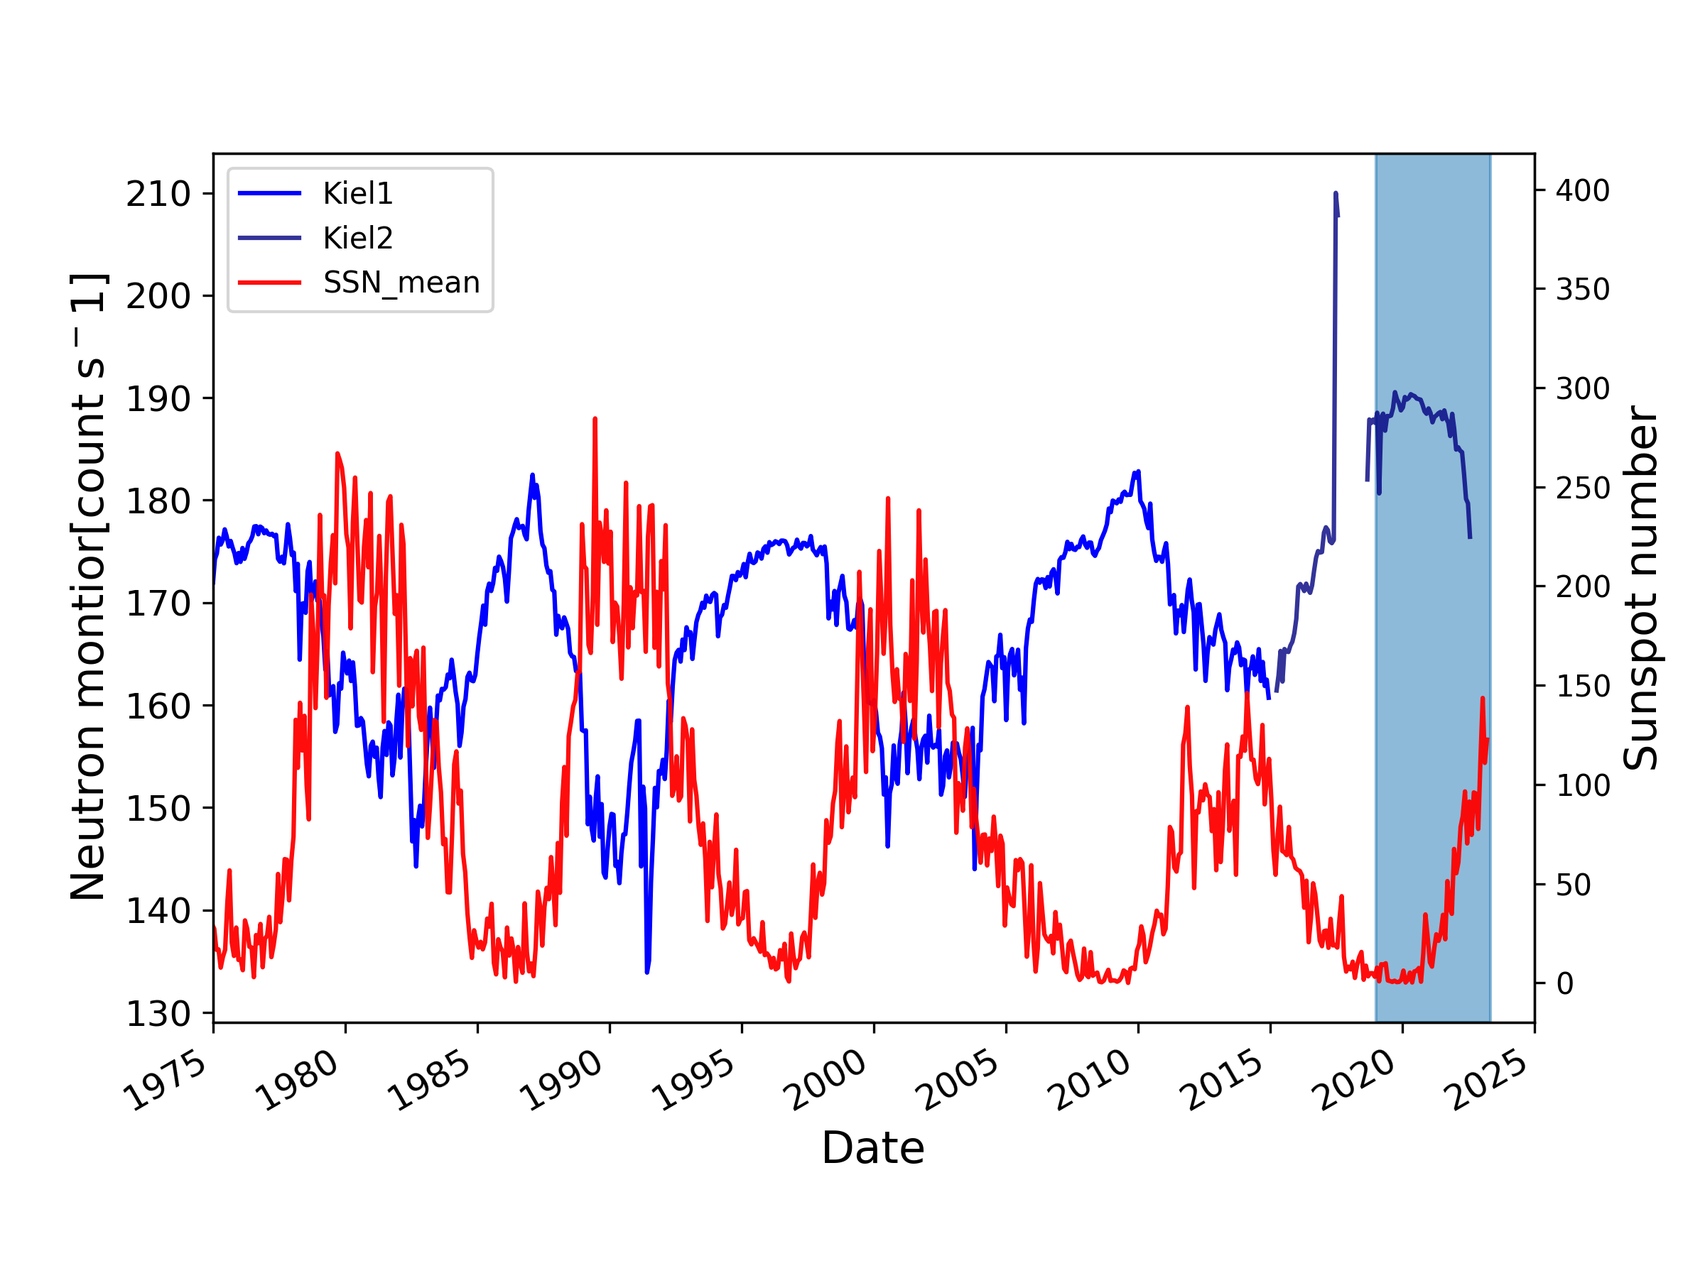
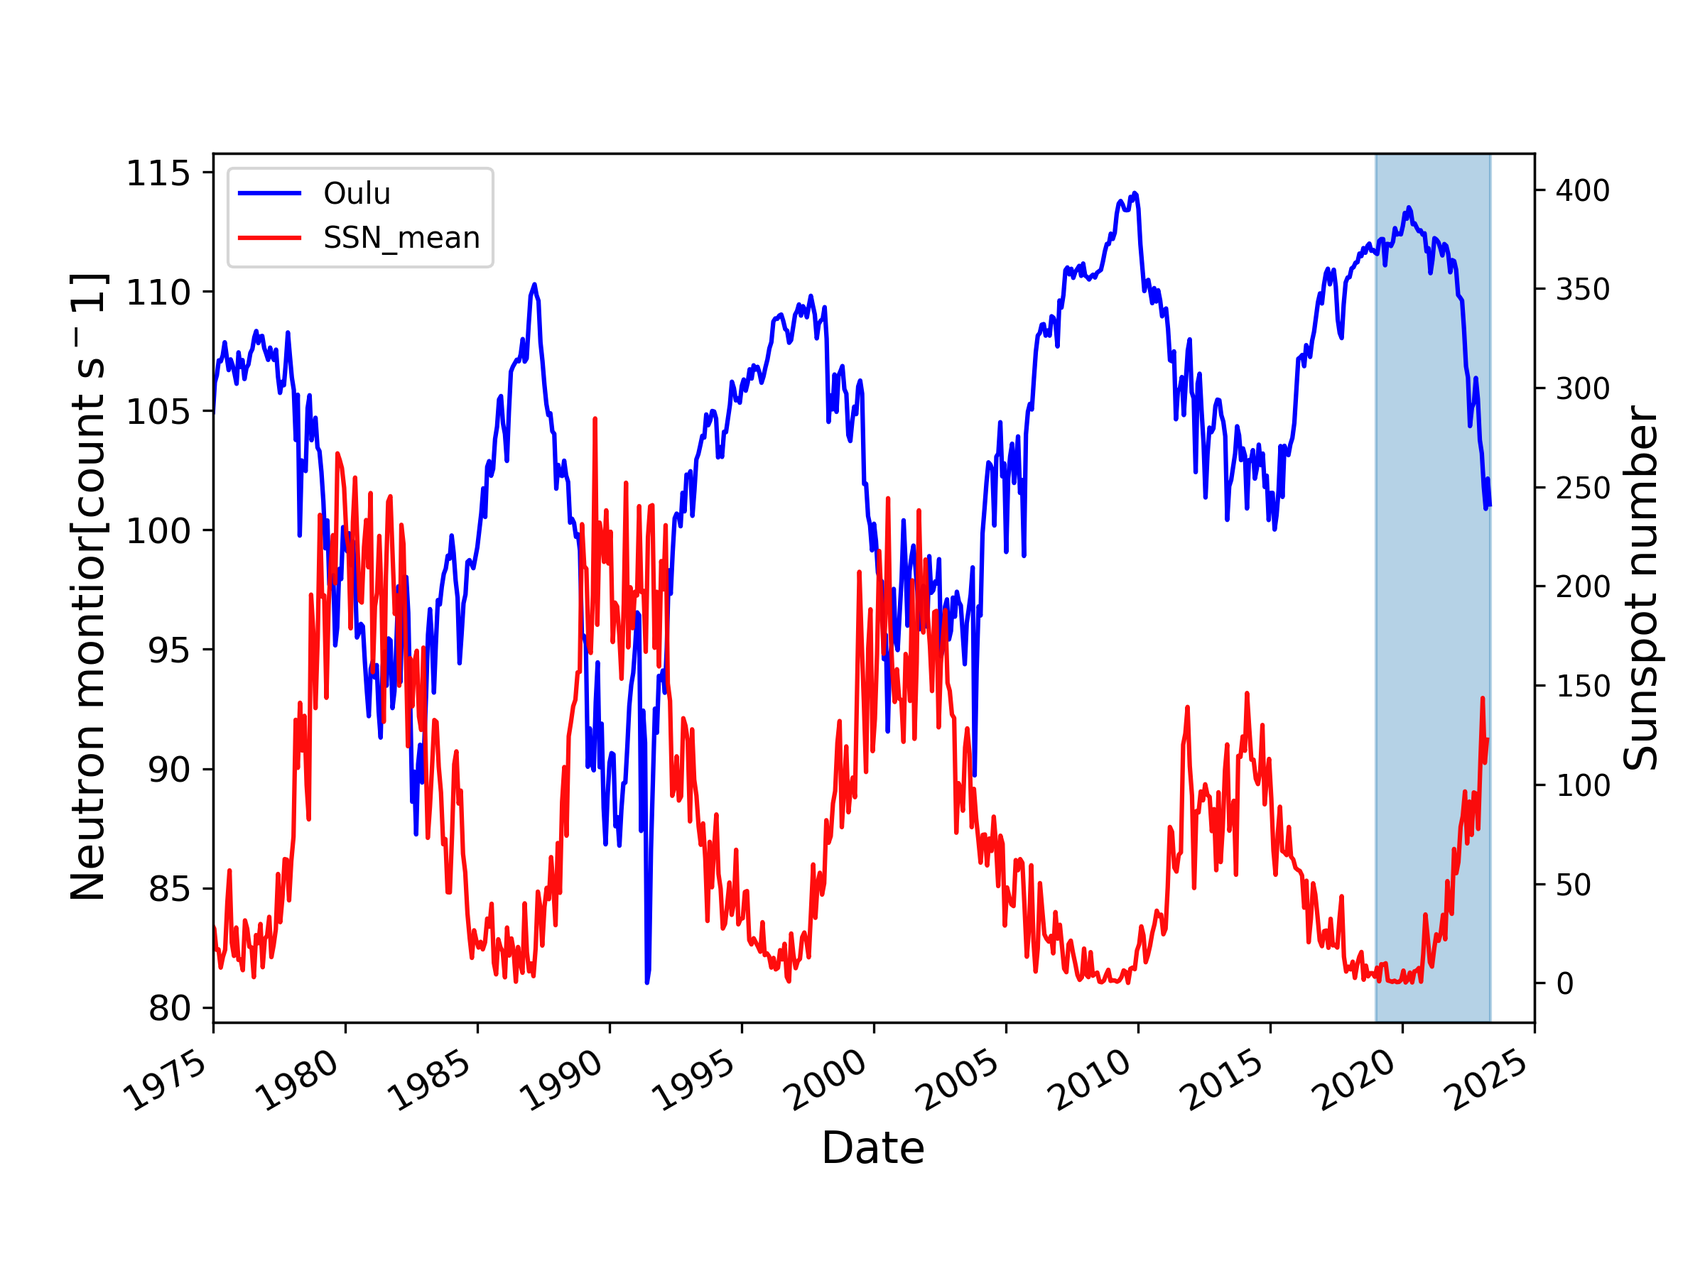
introduction_last_day

diff --git a/chapters/Introduction.tex b/chapters/Introduction.tex
@@ -37,20 +37,18 @@ After entering the heliosphere, the transport of both cosmic rays are controled 
 The first observation of \ac{SEP} events was made back to a magnetic storm on March 1, 1942 \citet{lange1942note,forbush1942further}, during which three unusual increase in the cosmic-ray intensity was observed on ground-based ionization chambers and the neutron monitors and appeared simultanously with the solar flare eruptio. Later, \citep{Forbush1946} attributed such increases to the charged particles oriented from the sun with sufficient energy to penetrate the Earth's atmosphere. Now we have known that this is the so-called \ac{GLE} event, one of the most hazard events in the space which is caused by solar energetic particles of more than 433 MeV/nuc energy, typical more than GeV. \citet{meyer1956solar,Shea2012SSRv,gopalswamy2013first,thakur2014ground, Reames2013}.
 
 It is commonly believed that the generation of \acp{SEP} are highly related to the solar flare during first few decades after the discovery of \ac{SEP} because they generally appeared simultanously. This is so-called "solar flare myth" as discussed in \citep{gosling1993the}. At the same time, the important role of CME and its driven shocks in the generation of \ac{SEP} was largely underestimated, though a quite lot researches on the characters of such \acp{SEP} like the duration, longitudinal distribution, the abundance of the typical elements and their association with radio burst had indicated the existence of two types of distinct events - impulsive and gradual \ac{SEP} events \citep{kahler1978prompt,kahler1984associations,cliver1982injection,cane1986two, reames1988ApJ}.
-Currently, the scientists have generated such a classic two-class picture (See,\ref{Fig:two_type_SEP},\ref{Tab:Two_type_SEP}) which has been widely accepted by the science community \citet{kallenrode2003current, reames2013two,Desai_Diacalone2016LRSP, Reames2021LNP}. Both acceleration sources and the locations are different.
+Currently, the scientists have generated such a classic two-class picture (See,\ref{Fig:two_type_SEP},\ref{Tab:Two_type_SEP}) which has been widely accepted by the science community \citet{kallenrode2003current, reames2013two,Desai_Diacalone2016LRSP, Reames2021LNP}. Both acceleration mechanisam and the source locations are different.
 
 
-Fig.~\ref{Fig:two_type_SEP} illustrate the current sceario of gradual (left) and impulsive (right) \acp{SEP}.
-The gradual events are diffusively accelerated by the CME-driven coronal and interplanetary (IP) shocks. 
-A complete gradual \ac{SEP} event usually consist of an increase phase as the start, a long lasting plateau and a flux peak at lower energy which indicates the arrival of \ac{CME} at the detector. The whole process might persist from one day to several days, depending on the magnetitude and connection between source and detectors. Gradual \acp{SEP} are always accompanied by the type II radio bursts, which are a broad and slow shift struture in the radio dynamic spectrum. Type II radio burst is considered as a signature of \ac{CME} and track of the propagation of \ac{CME} from the sun to 1 au. Shocks mainly accelerate protons and heavy ions, but not that effectively on the electrons, causing the large discrepancy of ratio of electron to proton between two type of \acp{SEP}.
+Fig.~\ref{Fig:two_type_SEP} illustrate the current scenario of gradual (left) and impulsive (right) \acp{SEP}.
+The gradual events are diffusively accelerated by the CME-driven coronal and interplanetary (IP) shocks. Generally, a complete gradual \ac{SEP} event that connects to the shock nose usually consists of an increase phase as the start, a long lasting plateau and a flux peak at lower energy which indicates the arrival of \ac{CME} at the detector. The whole process might persist from one day to several days. Gradual \ac{SEP} is always accompanied by the type II radio burst, which is a broad and slow shift struture in the radio dynamic spectrum. Type II radio burst is considered as a signature of \ac{CME} and track of the propagation of \ac{CME} from the sun to 1 au. Shocks mainly accelerate protons and heavy ions, but not the electrons with the same efficiency, causing the large discrepancy of ratio of electron to proton between two types of \acp{SEP}.
 Usually, the gradual \ac{SEP} spread widely in the IP since \ac{CME} has broader longitude extend and can be measured by multiple detectors even if they are far away from each other. In the next section, we will discuss more about this wide-spread event. The appearance frequency of gradual \ac{SEP} during the solar maximum is about $\sim 100$ per year
 
-While the solar flare which erupted from the solar active region is considered as the souce of the impulsive \ac{SEP} event. The fierce magnetic reconnections during the flare eruption can accelerate particles to high energies up to hundred MeV or even GeV. In this senario, the particles escape from the open magnetic field and arrive at the Earth along the spiral magnetic field (parker spiral, \citep{Parker-1958}) that shaped by the expanded solar wind. From the Earth's point of view, the impulsive \acp{SEP} are typically located in a narrow region in the west hemisphere of sun. Type III radio burst but no CME accompanied in
+While the solar flare which erupted from the solar active region is considered as the souce of the impulsive \ac{SEP} event. The fierce magnetic reconnections during the flare eruption can accelerate particles, especially electons, to high energies up to hundred MeV or even GeV. Therefore, the electrons are the dominant particles. Besides, in this senario, the particles escape from the open magnetic field and arrive at the Earth along the spiral magnetic field (Parker spiral, \citep{Parker-1958}) that is shaped by the expanding solar wind. From the Earth's point of view, the impulsive \acp{SEP} are typically located in a narrow region in the west hemisphere of sun. Type III radio burst usually appear with impulsive event, but no \ac{CME}
 The appearance frequency of impulsive \ac{SEP} during the solar maximum is about $\sim 10^3$ per year. The typical duration of impulsive \ac{SEP} is less than days.
+It is worth noting that, \citep{cane2003two} found that some intensive \ac{SEP} have two components related both flare and shocks. Such events are called mixed events that have flare particles as seed population and later those particles are reaccelerated by the shocks. [Might find a paper and confirm the statements]
 
-It is worth noting that, another type of SEP  have seed flare particles and shock reacceleration, such event are call mixed event \citet{cane2003two}
-
-In Tab.~\ref{Tab:two_type_SEP}, we summarized the general properties of the two types of \ac{SEP} events.
+In Tab.~\ref{Tab:Two_type_SEP}, we summarized the general properties of the two types of \ac{SEP} events.
 
 \begin{figure}
 	\centering
@@ -85,7 +83,7 @@ In Tab.~\ref{Tab:two_type_SEP}, we summarized the general properties of the two 
 		solar maximum)	& 	& 	\\
 		\hline
 	\end{tabular}
-\label{Tab:Two_type_SEP}
+	\label{Tab:Two_type_SEP}
 \end{table}
 
 
@@ -99,50 +97,27 @@ In Tab.~\ref{Tab:two_type_SEP}, we summarized the general properties of the two 
 	\label{Fig:SEP_widespread}
 \end{figure}
 
-Due to limited page allowance in the introduction part, we could not go through all those studies thoroughly. Instead, in this part we only focus on the so-called wide-spread SEP and the multiple instruments observation of SEP.
+Due to limited space in the introduction part, we could not go through all aspect 
+related to the \ac{SEP} thoroughly which can be refered in the review papers, for instance the remote-sensing observation of SEP like radio, EUV, X-ray and the problem regarding the injection and transport, composition, charge state, anisotropy and spectra evolution can be found in the review papers \citet{reames2013two, Desai_Diacalone2016LRSP, Reames2021LNP}
+Instead, in this part we short introduce the wide-spread SEP and the multiple instruments observation of SEP.
 
-Figure \ref{Fig:SEP_widespread} is the first widespread SEP of the SC 25. what paper
+Figure \ref{Fig:SEP_widespread} is the first widespread \ac{SEP} of the \ac{SC} 25 observed by \ac{SolO} and simultanously by \ac{PSP}, \ac{STEREO}, \ac{ACE}\/\ac{SOHO} near the Earth on 2020 November 29 \citet{Kollhoff2021AA, Kouloumvakos2022, Palmerio2022}. Both relativisitc electons and higher energy protons with energy >50 MeV were observed. This SEP was associated with an M4.4 class flare accompanied by a \ac{CME}, \ac{EUV} wave, type II/III radio burst. The particles spread over a more than 230$^\circ$ longitude regions at 1 AU. The black arrow in the middle panel indicates the location of the active region and the possible location of the central meridian of the \ac{CME}.  Depending on the magnetic connection between \ac{CME} shock and instrument at different locations, the time profiles of particles are different. For instance, \ac{PSP} and \ac{STEREO} connect closely to the central meridian, hence the intensity profile shape are similar with the \ac{SEP} we showed in Fig.~\ref{Fig:Two_type_SEP}, i.e., abrupt increase plus a peak when the shock reached the s\/c location. While Earth is about 166$^\circ$ away from the active region and connect to the west limb of the source, the intensity of the event slowly increased.
+Recently a comprohensive study of the second widespread \ac{SEP} of \ac{SC} 25 occured on 2021 April 17 is carried by \citep{dresing202317}. It was detected over a more than 210$^\circ$ longitudianl region at 6 location including four locations used in the previous event, \ac{Bepi} and Mars from different radial distance, though the Mars observation only provide a observational contrain. \citep{dresing202317} argue that the distinct SEP injections cover a wide range of longitudes might be responsible for this widespread SEP event.
 
+As indicated from two examples, the wide spread \ac{SEP} event is type of event that particles can spread over a large range of longitude (\> 200$^\circ$), and persist for few days, somesome
 
-17 April 2021 second widespread SEP event detected in solar cycle 25,
- the distinct SEP injections cover a wide range of longitudes might be responsible for this widespread SEP event.
+One of the most important question of SEP is how the energetic particle spread the heliosphere. The possible mechanism of the large spread SEPs including Magnetic connection to an expanding coronal and IP shock, Coronal transport, multiple particle injections, EUV waves, cross-field diffusion, meandering magnetic field lines, particle transport to remote longitudes by large-scale magnetic loops.
 
-As we can see from the above two studies, the wide spread \ac{SEP} event is a kind of event that spread over a large range of longitude, and persist for a longer time, Some some some.spread over larger longitude range ( >100 degree), persist for a longer time
-Wide spread SEP reflect the large longitudianl extend of the SEP.
+In the above two example, we have already use multiple instrument to study the \ac{SEP} events. While the history of multiple observation dates back to 
 
-What is wide spread SEP
-What are the previous observation of wide spread, - ? gradual? - related information?
+%Nowadays, more and more space-born telescopes have been developed and launched to study the center of our heliosphere and moniter the variation of the plasma environment.  
+%Study both in-situ and remote.
+%Now - \ac{SOLO} \ac{PSP} and \ac{Bepi},  Mars, STEREO missson, helios mission, new mission from China, \citet{Wang2020Solarring,}India
 
-
-One of the most important question of SEP is how the energetic particle spread the heliosphere. 
-
-The possible mechanism of the large spread SEPs including Magnetic connection to an expanding coronal and IP shock,
-Coronal transport
-Multiple particle injections
-EUV waves
-cross-field diffusion
-Meandering magnetic field lines
-Particle transport to remote longitudes by large-scale magnetic loops
+%A numerous observation and simulation studies have been carried on in the past few decade since the discovery of SEP back to 1950s. The major questions of SEP focus on the origin, acceleration and transport of those high energy particles.\citep{Desai_Diacalone2016LRSP}, which is also the goal of recently two missions \ac{PSP} and \ac{SolO}. 
 
 
 
-At the same time, the multiple observation might bring up new ideas.
-The history of multiple obseravtion date back to when  (Nina's thesis)
-
-two studies confirm the , the important of the multiple observation.
-The multiple obseravtion provide unique information - bring new information
-
-
-
-Large amount of study 
-remote-sensing observation of SEP like radio, EUV, X-ray and the problem regarding the injection and transport, composition, charge state, anisotropy and spectra evolution can be found in the review papers \citet{reames2013two, Desai_Diacalone2016LRSP, Reames2021LNP}
-
-A numerous observation and simulation studies have been carried on in the past few decade since the discovery of SEP back to 1950s. The major questions of SEP focus on the origin, acceleration and transport of those high energy particles.\citep{Desai_Diacalone2016LRSP}, which is also the goal of recently two missions \ac{PSP} and \ac{SolO}. 
-
-Study both in-situ and remote.
-Now - \ac{SOLO} \ac{PSP} and \ac{Bepi},  MarsSTEREO missson, helios mission, new mission from China, \citet{Wang2020Solarring,}India
-together with 
-Multiple instruments observation of wide-spread SEP provide unique opportunity to study the acceleration, release, and propagation of SEP in the heliosphere
 
 
 
@@ -207,13 +182,14 @@ Several popular used model like BON14, 2020, CREME 96 and HELMOD based the solar
 \begin{figure}
 	\centering
 	\includegraphics[width = 0.9\textwidth]{images/Solar_modulation.png}
-	\caption{The solar modulation potential ($\phi$) \cite{Usoskin 2011}, data are downloaded from \url{https://cosmicrays.oulu.fi/phi/phi.html}, and the monthly averaged sunspot number from Solar Influences Data analysis Center (SIDC), Royal Observatory of Belgium, Brussels, \url{https://www.sidc.be/silso/datafiles}}
+	\caption{Oulu neutron monitor count rate\footnote{\url{https://www.nmdb.eu/data/}} measured by Sodankyla Geophysical Observatory of the University of Oulu, Finland  and the monthly averaged sunspot number from Solar Influences Data analysis Center (SIDC), Royal Observatory of Belgium, Brussels\footnote{ \url{https://www.sidc.be/silso/datafiles}}. The period that we are interested in is marked by the shadow region.}
 	\label{Fig:Solar_modulation}
 \end{figure}
+%The solar modulation potential ($\phi$) \cite{Usoskin 2011}, data are downloaded from \url{https://cosmicrays.oulu.fi/phi/phi.html}, 
 
-
-Figure \ref{Fig:Solar_modulation} show the monthly averaged sunspot number since 1975 in red and the solar modulation potential ($\phi$) \cite{Usoskin 2011}.
-Sunspot number is a proxy for the solar activities. The variation of the solar modulation potential align with the variation of solar activities in the solar cycle.
+Figure \ref{Fig:Solar_modulation} show the monthly averaged sunspot number since 1975 in red and Oulu neutron monitor count rate.
+%the solar modulation potential ($\phi$) \cite{Usoskin 2011}.
+Sunspot number is a proxy for the solar activities. The variation of the neutron monitor count rate align with the variation of solar activities in the solar cycle.
 The GCR flux is anti-correlated with the averaged sunspot number, that is the GCR flux peaks when the sunspot number is minimum during solar minimum and vice versa in the solar maximum.
 The time between two neighbouring solar minimum is about 11 years, which is the period of the solar cycle and caused by the polarity reversal of the solar magnetic field, which is the solar cycle.
 
@@ -224,7 +200,7 @@ This because in the A < 0 magnetic polarity cycle, the positively (negatively) c
 \begin{figure}
 	\centering
 	\includegraphics[width = 0.5\textwidth]{images/drift_effect.png}
-	\caption{The illustration of the drift effects, adapted from the Fig. 4 of \citep{Rankim 2020?}}
+	\caption{The illustration of the drift effects, adapted from the Fig. 4 of \citep{}}
 	\label{Fig:drift_effect}	
 \end{figure}
 
@@ -245,13 +221,13 @@ Therefore, the studies of both the temperal variation and spatial gradient are s
 
 \section{Anomalous Cosmic Ray}
 
-Anomalous cosmic rays are mostly the singly charged energetic particle dominated the energy range between few meV/nuc to $\sim$ 100 MeV/nuc. \acs{ACR} were firstly discovered by the \acs{IMP} 7 and 8 in 1970s [citation]. By analyzing the lower spectra of cosmic rays, [who] et al found an "unusual" enhancement of the flux of [particle species]. As the oxygen spectra in Figure \ref{Fig:Oxygen_spectra_cosmic_ray}, the intensity of oxygen did not decrease as the energy decrease from hundred MeV/nuc to MeV/nuc, but incrase
-Currently, both ACR helium, oxygen, neon, protons have been found in the outside of 1 AU region and what find in 1 AU
+\ac{ACR} are mostly the singly charged energetic particle dominated the energy range between few meV/nuc to $\sim$ 100 MeV/nuc. \acs{ACR} were firstly discovered by the \acs{IMP} 7 and 8, the instrumnent back to 1970s \citet{Garcia1973ICRC, Hoverstadt1973PhRvL, McDonald1974ApJ}. By analyzing the lower spectra of cosmic rays, the scientist found an "unusual" enhancement of the flux of helium (\< 50 MeV\/nuc), oxygen and nitrogen (\<20 MeV\/nuc) below 100 MeV\/nuc. As the oxygen spectrum which is pointed out by the arrow in Figure \ref{Fig:Oxygen_spectra_cosmic_ray} shown, the intensity of lower energy oxygen did not decrease as the energy decrease from hundred MeV/nuc to MeV/nuc, as expected from our understanding of the \ac{GCR} spectrum, but increase instead. Those particles have been known as the \ac{ACR}. \ac{ACR} elements include helium, nitrogen, oxygen, and neon that have been discovered in the inner heliosphere, and Ar and possibly protons that have been found in the outer region of heliosphere \citet{Klecker1995SSRv}.
 
-It is believe that ACRs are the high energy interstellare pick up ions which are accelerated in termination shock of the heliosphere. Extend this to a paragraph;
-The possible acceleration mechanisam of the ACR include  (citaion)
+It is believe that ACRs are the high energy interstellar pick up ions which are accelerated in termination shock of the heliosphere \citet{Fisk1974ApJ}. The pick up ions are oriented from the intersteallar neutral atoms which are ionzied by the solar UV and the interaction with solar wind ions when they drift into the heliosphere. After being ionized, the solar wind carry those pick up ions and transport them to the outer heliosphere, where the charge particles are accelerated by the blunt termination shocks \citet{McComas2006GeoRL} and gain energy up to few tens of MeV/nuc. Currently , this is the most accepted theory of the ACR origin, which is also supported by the current observation of various instrument \citet{McComas2019ApJ, Cummings2019ICRC,}.
 
-One of the key chararcters of ACR is that those energy particles are singly charged, which could help use to seperate the ACR from the GCR and SEPs. [Find a paragraph to extend the charge state analysis] - a relatively detailed observation history of the ACR charge state which is already the fixed answer. - Explain.
+One of the key chararcters of \ac{ACR} is that particles are singly charged, which could help us to seperate the ACR from the GCR and SEPs. 
+
+[Find a paragraph to extend the charge state analysis] - a relatively detailed observation history of the ACR charge state which is already the fixed answer. - Explain.
 
 Though the source of ACR and GCR are total different, after they entering the heliosphere, the energetic particles endourver the same transport process and interact with the solar wind and magnetic field,  which together could be described by the TPE equation.
 

diff --git a/chapters/Contents.tex b/chapters/Contents.tex
@@ -69,7 +69,9 @@
 	\acro{EPT}[EPT]{Electron Proton Telescope\acroextra{ (part of \acs{EPD} onboard \acs{SolO})}}
     \acro{EUHFORIA}[EUHFORIA]{European Heliospheric Forecasting Information Asset\acroextra{ \citep[heliospheric \acs{MHD} model,][]{Pomoell-2018}}}
 	\acro{EUV}[EUV]{extreme ultraviolet}
-	\acro{FD}[FD]{Forbush decrease\acroextra{ (see \autoref{sec:forbush})}}
+	%\acro{FD}[FD]{Forbush decrease\acroextra{ (see \autoref{sec:forbush})}}
+	\acro{FD}[FD]{Forbush decrease}
+
 	\acro{ForbMod}[ForbMod]{Forbush decrease model for flux rope \acsp{ICME}\acroextra{\\\citep{Dumbovic2018-ForbMod,Dumbovic-2020-ForbMod}}}
 	\acro{FOV}[FOV]{field of view}
 	\acro{GCR}[GCR]{galactic cosmic ray}
@@ -85,6 +87,7 @@
     \acro{HSS}[HSS]{high speed stream}
 	\acro{HMF}[HMF]{Heliospheric Magnetic Field}
     \acrodefplural{HSS}[HSS]{high speed streams}
+	\acro{IMP}{Interplanetary Monitoring Platform}
 	\acro{ICME}[ICME]{interplanetary coronal mass ejection}
 	\acro{IDL}[IDL]{Interactive Data Language\acroextra{ (programming language)}}
 	\acro{IMF}[IMF]{interplanetary magnetic field}
